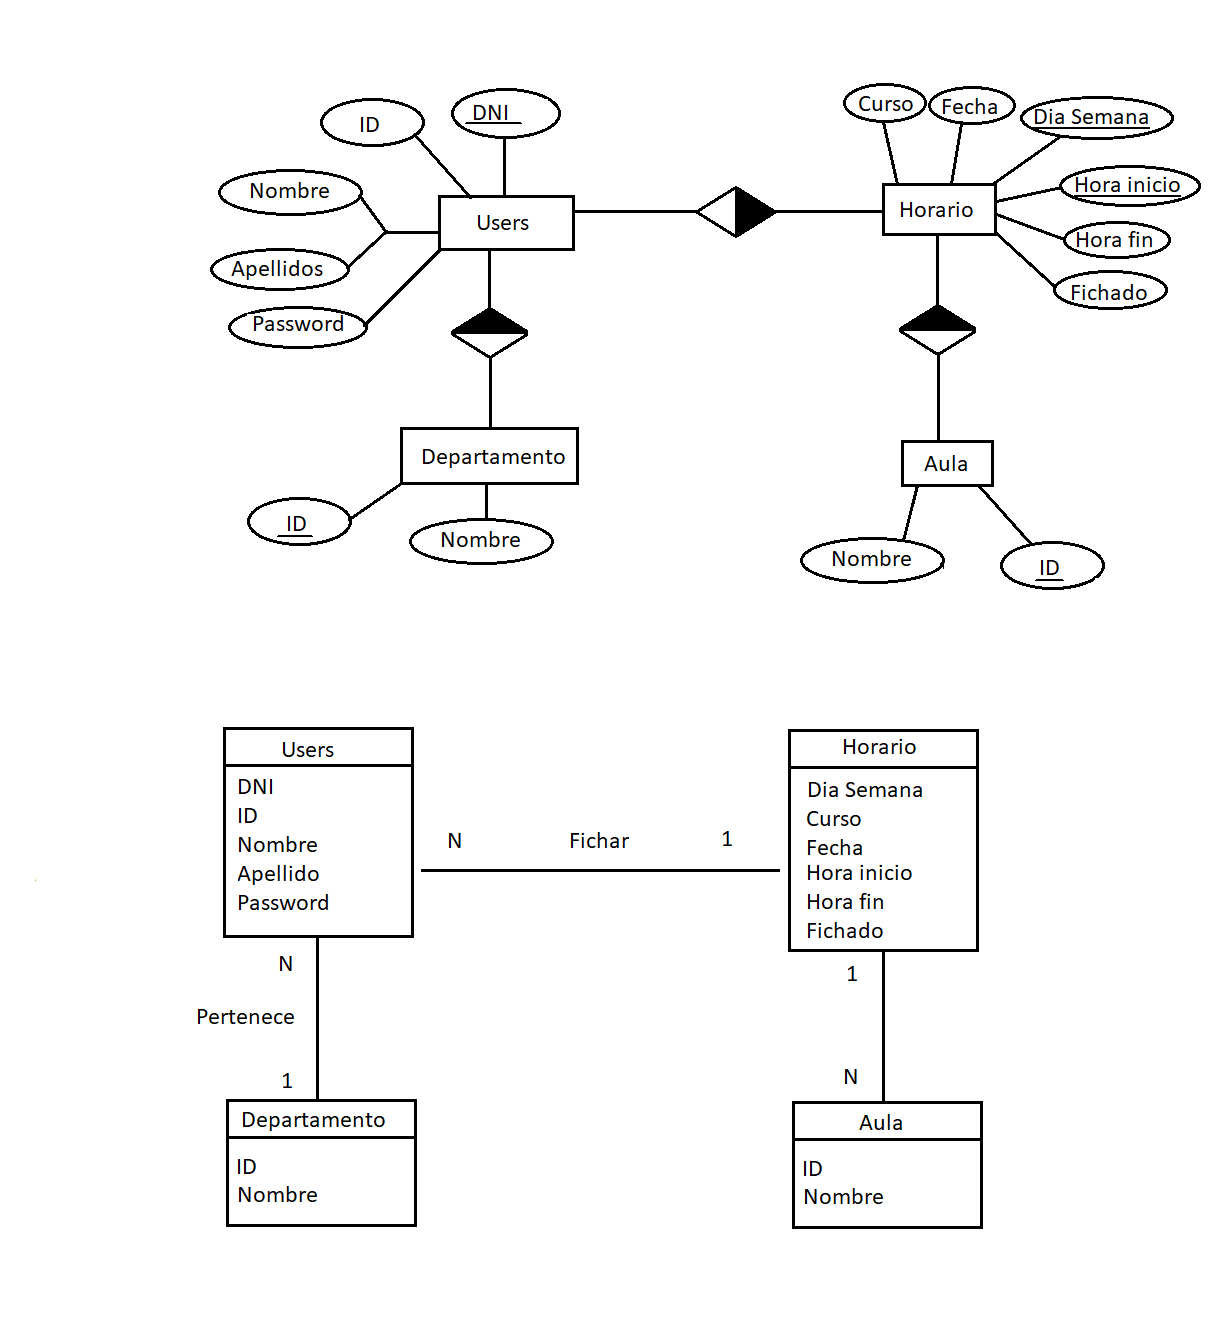
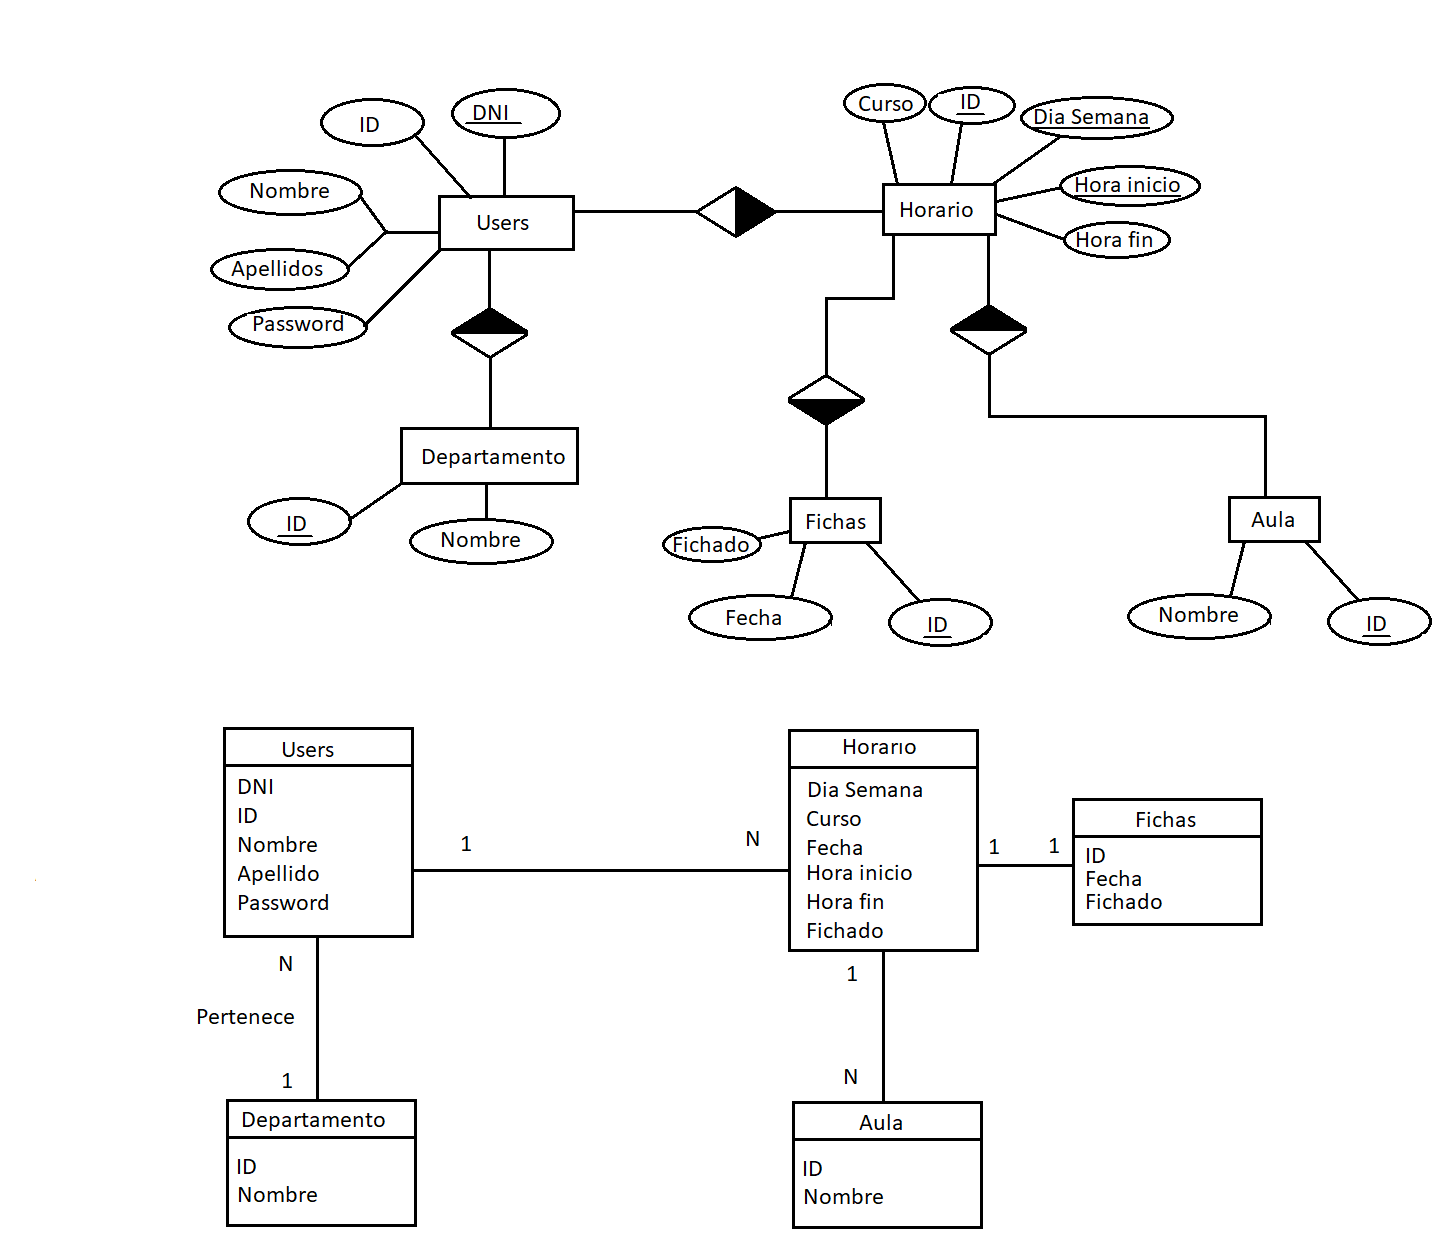
Cambios en el mockUpApp, en la img de la BBDD y modificacion en las clases de spring

diff --git a/PeticionesEntradaSalida/ProyectoEntradaSalida/src/main/java/com/iesmz/proyectofinal/dmr/domain/Horario.java b/PeticionesEntradaSalida/ProyectoEntradaSalida/src/main/java/com/iesmz/proyectofinal/dmr/domain/Horario.java
@@ -1,5 +1,6 @@
 package com.iesmz.proyectofinal.dmr.domain;
 
+import com.fasterxml.jackson.annotation.JsonIgnoreProperties;
 import io.swagger.v3.oas.annotations.media.Schema;
 import lombok.AllArgsConstructor;
 import lombok.Data;
@@ -7,43 +8,46 @@ import lombok.NoArgsConstructor;
 
 import javax.persistence.*;
 import javax.validation.constraints.NotBlank;
-import java.time.LocalDate;
-import java.util.List;
-import java.util.Set;
 
 @Data
 @AllArgsConstructor
 @NoArgsConstructor
-@Entity(name = "Horario")
+@Entity(name = "horario")
 public class Horario {
 
-    @Schema(description = "Curso del horario", example = "2DAM", required = true)
+    @Schema(description = "id del horario", example = "1", required = true)
     @Id
+    @GeneratedValue(strategy = GenerationType.IDENTITY)
+    private long idHorario;
+
+    @Schema(description = "Curso del horario", example = "2DAM", required = true)
+    @NotBlank
+    @Column
     private String curso;
 
-    @Schema(description = "Fecha del horario", example ="26/05/2022", required = true)
+    @Schema(description = "Dia de la semana del horario", example = "1", required = true)
     @NotBlank
     @Column
-    private LocalDate fecha;
+    private int diaSemana; //el dia de la semana será del 1 al 5
 
-    @Schema(description = "Dia de la semanal del horario", example = "Viernes", required = true)
+    @Schema(description = "Hora de inicio del trabajador en el horario", example = "08:00h", required = true)
     @NotBlank
     @Column
-    private String diaSemana;
-
-    /*@Schema(description = "Hora de inicio del trabajador en el horario", example = "08:00h", required = true)
-    @NotBlank
-    @Column
-    private List<String> horaInicio;
+    private String horaInicio;
 
     @Schema(description = "Hora final del trabajador en el horario", example = "14:00h", required = true)
     @NotBlank
     @Column
-    private List<String> horaFin;*/
+    private String horaFin;
 
-    /*@Schema(description = "Fichaje del trabajador en el horario", example = "E08:00h S14:00h", required = true)
-    @NotBlank
-    @Column
-    private Set<String> Fichado;*/
+    @ManyToOne
+    @JoinColumn(name="dni")
+    private User user;
 
+    @ManyToOne
+    @JoinColumn(name="idAula")
+    private Aula aula;
+
+    @OneToOne(mappedBy = "horario",fetch = FetchType.LAZY)
+    private Fichas fichas;
 }

diff --git a/PeticionesEntradaSalida/ProyectoEntradaSalida/src/main/java/com/iesmz/proyectofinal/dmr/domain/Departamento.java b/PeticionesEntradaSalida/ProyectoEntradaSalida/src/main/java/com/iesmz/proyectofinal/dmr/domain/Departamento.java
@@ -1,5 +1,6 @@
 package com.iesmz.proyectofinal.dmr.domain;
 
+import com.fasterxml.jackson.annotation.JsonIgnoreProperties;
 import io.swagger.v3.oas.annotations.media.Schema;
 import lombok.AllArgsConstructor;
 import lombok.Data;
@@ -7,21 +8,25 @@ import lombok.NoArgsConstructor;
 
 import javax.persistence.*;
 import javax.validation.constraints.NotBlank;
+import java.util.List;
 
 @Data
 @AllArgsConstructor
 @NoArgsConstructor
-@Entity(name = "Departamento")
+@Entity(name = "departamento")
 public class Departamento {
 
     @Schema(description = "Id del departamento", example = "1", required = true)
     @Id
     @GeneratedValue(strategy = GenerationType.IDENTITY)
-    private long id;
+    private long idDepartamento;
 
     @Schema(description = "Nombre del departamento", example ="Informatica", required = true)
     @NotBlank
     @Column
     private String nombre;
+
+    @OneToMany(mappedBy = "departamento", targetEntity = User.class, cascade = CascadeType.ALL, fetch = FetchType.EAGER)
+    private List<User> users;
 
 }

diff --git a/PeticionesEntradaSalida/ProyectoEntradaSalida/src/main/java/com/iesmz/proyectofinal/dmr/domain/Fichas.java b/PeticionesEntradaSalida/ProyectoEntradaSalida/src/main/java/com/iesmz/proyectofinal/dmr/domain/Fichas.java
@@ -1,0 +1,35 @@
+package com.iesmz.proyectofinal.dmr.domain;
+
+import io.swagger.v3.oas.annotations.media.Schema;
+import lombok.AllArgsConstructor;
+import lombok.Data;
+import lombok.NoArgsConstructor;
+
+import javax.persistence.*;
+import java.time.LocalDate;
+
+@Data
+@AllArgsConstructor
+@NoArgsConstructor
+@Entity(name = "fichas")
+public class Fichas {
+
+    @Schema(description = "id de los fichajes", example = "1", required = true)
+    @Id
+    @GeneratedValue(strategy = GenerationType.IDENTITY)
+    private long idFichas;
+
+    @Schema(description = "Fecha en la que se realiza el fichaje", example = "12/10/2021",
+            required = true)
+    @Column
+    private LocalDate fecha;
+
+    @Schema(description = "Información si se ha fichado en esa hora", example = "True",
+            required = true)
+    @Column
+    private boolean fichado;
+
+    @OneToOne(cascade = {CascadeType.ALL})
+    @JoinColumn(name="idHorario")
+    private Horario horario;
+}

diff --git a/PeticionesEntradaSalida/ProyectoEntradaSalida/src/main/java/com/iesmz/proyectofinal/dmr/domain/User.java b/PeticionesEntradaSalida/ProyectoEntradaSalida/src/main/java/com/iesmz/proyectofinal/dmr/domain/User.java
@@ -7,12 +7,12 @@ import lombok.NoArgsConstructor;
 
 import javax.persistence.*;
 import javax.validation.constraints.NotBlank;
-import java.time.LocalDate;
+import java.util.List;
 
 @Data
 @AllArgsConstructor
 @NoArgsConstructor
-@Entity(name = "User")
+@Entity(name = "user")
 public class User {
 
 
@@ -24,7 +24,7 @@ public class User {
     @NotBlank
     @Column
     @GeneratedValue(strategy = GenerationType.IDENTITY)
-    private Long id;
+    private Long idUser;
 
     @Schema(description = "Nombre del trabajador/usuario", example ="Pepe", required = true)
     @NotBlank
@@ -40,4 +40,13 @@ public class User {
     @NotBlank
     @Column
     private String password;
+
+    @ManyToOne
+    @JoinColumn(name="idDepartamento")
+    private Departamento departamento;
+
+    @OneToMany(mappedBy = "user", fetch = FetchType.LAZY)
+    private List<Horario> horarios;
+
+
 }

diff --git a/PeticionesEntradaSalida/ProyectoEntradaSalida/src/main/java/com/iesmz/proyectofinal/dmr/domain/Aula.java b/PeticionesEntradaSalida/ProyectoEntradaSalida/src/main/java/com/iesmz/proyectofinal/dmr/domain/Aula.java
@@ -7,23 +7,25 @@ import lombok.NoArgsConstructor;
 
 import javax.persistence.*;
 import javax.validation.constraints.NotBlank;
+import java.util.List;
 
 
 @Data
 @AllArgsConstructor
 @NoArgsConstructor
-@Entity(name = "Aula")
+@Entity(name = "aula")
 public class Aula {
 
     @Schema(description = "Id del aula", example = "1", required = true)
     @Id
     @GeneratedValue(strategy = GenerationType.IDENTITY)
-    private long id;
+    private long idAula;
 
     @Schema(description = "Nombre del aula", example ="Info 1", required = true)
     @NotBlank
     @Column
     private String nombre;
 
-
+    @OneToMany(mappedBy = "aula", fetch = FetchType.LAZY)
+    private List<Horario> horarios;
 }

diff --git a/PeticionesEntradaSalida/ProyectoEntradaSalida/src/main/java/com/iesmz/proyectofinal/dmr/controller/HorarioController.java b/PeticionesEntradaSalida/ProyectoEntradaSalida/src/main/java/com/iesmz/proyectofinal/dmr/controller/HorarioController.java
@@ -30,7 +30,7 @@ public class HorarioController {
                     content = @Content(schema = @Schema(implementation =
                             Horario.class)))
     })
-    @GetMapping( value = "/departamento", produces = "application/json")
+    @GetMapping( value = "/horario", produces = "application/json")
     public ResponseEntity<Set<Horario>> getAllHorario() {
         Set<Horario> horario=null;
         horario = horarioService.findAll();
